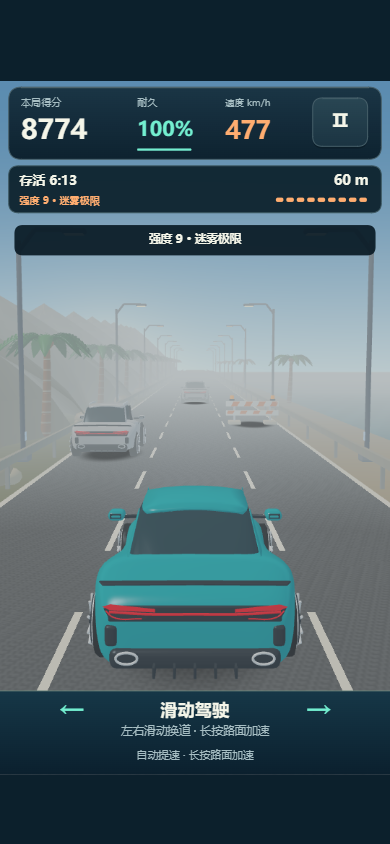
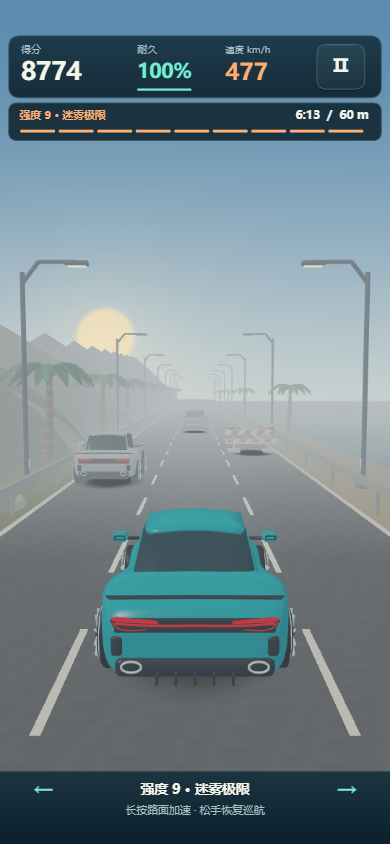
Improve phone layout and driving scene clarity

diff --git a/公路之王/src/game-app.js b/公路之王/src/game-app.js
@@ -11,7 +11,9 @@ class RoadKingApp {
   constructor(p){
     this.p=p;this.ctx=p.canvas.getContext('2d');
     this.scale=Math.min(p.width/W,(p.height-p.top-p.bottom)/H);
-    this.ox=(p.width-W*this.scale)/2;this.oy=p.top+(p.height-p.top-p.bottom-H*this.scale)/2;
+    this.ox=(p.width-W*this.scale)/2;this.oy=p.top;
+    this.viewHeight=(p.height-p.top-p.bottom)/this.scale;
+    this.sceneHeight=p.height/this.scale;
     this.buttons=[];this.touchMap={};this.keyboard={};this.queuedLane=null;this.clock=0;this.shake=0;this.newBest=false;
     // Blender renders are optional at startup: a missing image keeps its vector fallback.
     this.art={};this.artLoaded=0;this.artErrors=[];
@@ -22,6 +24,7 @@ class RoadKingApp {
     const saved=p.read(BEST_KEY)||{};this.best={score:number(saved.score),distance:number(saved.distance),elapsed:number(saved.elapsed)};
     this.game=new Core({onEvent:(type,data)=>this.onEvent(type,data)});
     this.scene=new SceneRenderer(p);
+    this.scene.setView(W,this.sceneHeight,this.oy/this.scale);
     p.touches(e=>this.touchStart(e),e=>this.touchMove(e),e=>this.touchEnd(e),()=>this.releaseHolds());
     p.lifecycle(()=>{this.hidden=true;this.releaseHolds();this.game.pause();p.stopSound();this.syncEngine();},()=>{this.hidden=false;this.last=p.now();this.syncEngine();});
     this.last=p.now();
@@ -71,7 +74,7 @@ class RoadKingApp {
     (e.changedTouches||e.touches||[]).forEach(t=>{
       const pt=this.point(t),b=this.buttons.slice().reverse().find(b=>!b.disabled&&this.inside(pt,b)),id=t.identifier==null?0:t.identifier;
       if(b){this.touchMap[id]={button:b,pt};if(b.hold)this.updateHolds();else{b.action();this.draw();}}
-      else if(this.game.mode==='playing'&&pt.x>=0&&pt.x<=W&&pt.y>=185&&pt.y<=H&&!Object.values(this.touchMap).some(item=>item.swipe))this.touchMap[id]={pt,swipe:true,axis:null,used:false,heldTime:0,holdEligible:true};
+      else if(this.game.mode==='playing'&&pt.x>=0&&pt.x<=W&&pt.y>=156&&pt.y<=this.viewHeight&&!Object.values(this.touchMap).some(item=>item.swipe))this.touchMap[id]={pt,swipe:true,axis:null,used:false,heldTime:0,holdEligible:true};
     });
   }
   touchMove(e){
@@ -119,13 +122,14 @@ class RoadKingApp {
   }
   draw(){
     const c=this.ctx,p=this.p;c.setTransform(1,0,0,1,0,0);c.fillStyle=C.ink;c.fillRect(0,0,p.canvas.width,p.canvas.height);
-    c.setTransform(p.ratio*this.scale,0,0,p.ratio*this.scale,p.ratio*this.ox,p.ratio*this.oy);c.save();c.beginPath();c.rect(0,0,W,H);c.clip();this.buttons=[];this.drawWorld();
+    c.setTransform(p.ratio*this.scale,0,0,p.ratio*this.scale,p.ratio*this.ox,p.ratio*this.oy);c.save();this.buttons=[];this.drawWorld();c.beginPath();c.rect(0,-this.oy/this.scale,W,this.sceneHeight);c.clip();
     if(this.game.mode==='menu')this.drawMenu();else{this.drawHud();if(this.game.mode==='paused')this.drawPause();else if(this.game.mode==='result')this.drawResult();}if(this.sidebarGuide)this.drawSidebarGuide();c.restore();
   }
   projection(z,x=0){const p=1/(1+Math.max(-8,z)/34),half=242*p;return{x:270+x*half*.66,y:208+530*p,p,half};}
   drawWorld(){
     if(this.scene.render(this.game,this.clock)){
-      this.ctx.drawImage(this.scene.canvas,0,0,W,H);
+      this.ctx.imageSmoothingEnabled=true;
+      this.ctx.drawImage(this.scene.canvas,0,-this.oy/this.scale,W,this.sceneHeight);
       for(const car of this.game.traffic){if(car.warningTimer>0&&car.signalDirection&&car.z>0&&car.z<120){const a=this.scene.project([car.x*3.1,2.3,-car.z]);if(a){this.rr(a.x-32,a.y-24,64,24,7,C.orange);this.txt(car.signalDirection<0?'← 变线':'变线 →',a.x,a.y-12,13,C.ink,'bold','center');}}}
       return;
     }
@@ -221,7 +225,7 @@ class RoadKingApp {
     this.rr(-28*p,-60*p,9*p,9*p,3*p,'#fff0ad');this.rr(19*p,-60*p,9*p,9*p,3*p,'#fff0ad');c.restore();
   }
   drawMenu(){
-    const c=this.ctx,fade=c.createLinearGradient(0,0,0,H);fade.addColorStop(0,'rgba(7,24,36,.98)');fade.addColorStop(.21,'rgba(8,27,39,.89)');fade.addColorStop(.41,'rgba(8,27,39,.50)');fade.addColorStop(.57,'rgba(8,27,39,.98)');fade.addColorStop(1,'rgba(8,27,39,1)');c.fillStyle=fade;c.fillRect(0,0,W,H);
+    const c=this.ctx,fade=c.createLinearGradient(0,0,0,H);fade.addColorStop(0,'rgba(7,24,36,.98)');fade.addColorStop(.21,'rgba(8,27,39,.89)');fade.addColorStop(.41,'rgba(8,27,39,.50)');fade.addColorStop(.57,'rgba(8,27,39,.98)');fade.addColorStop(1,'rgba(8,27,39,1)');c.fillStyle=fade;c.fillRect(0,-this.oy/this.scale,W,this.sceneHeight);
     this.rr(28,28,6,17,3,C.orange);this.txt('驾考宝典',45,37,16,C.white,'bold');this.txt('ENDLESS DRIVE',514,37,12,C.mute,'normal','right');
     this.txt('驾考宝典之公路日常',26,108,48,C.white,'bold');this.txt('一条公路，没有终点。',30,165,23,'#d0ded6');
     this.rr(28,202,151,31,15,'rgba(88,192,171,.14)','#3f736e');this.txt('开局强度 '+this.game.startTier,103,218,15,C.cyan,'bold','center');
@@ -250,19 +254,25 @@ class RoadKingApp {
   }
   drawHud(){
     const g=this.game,c=this.ctx,playing=g.mode==='playing',difficulty=g.difficulty||{tier:1,label:'起步巡航',progress:0},danger=difficulty.tier>=4;
-    const hud=c.createLinearGradient(0,8,0,108);hud.addColorStop(0,'rgba(24,51,65,.97)');hud.addColorStop(1,'rgba(11,30,43,.97)');
-    this.rr(12,8,516,100,18,hud,'#49616a');this.line(29,9,511,9,'rgba(232,235,201,.24)');this.txt('本局得分',29,31,14,C.mute);this.txt(Math.round(g.score),29,70,37,C.white,'bold');this.txt('耐久',190,31,14,C.mute);this.txt(Math.round(g.health)+'%',190,69,28,g.health>35?C.cyan:C.red,'bold');this.rr(190,93,75,3,1.5,'#34535a');if(g.health>0)this.rr(190,93,75*g.health/100,3,1.5,g.health>35?C.cyan:C.red);this.txt('速度 km/h',312,31,13,C.mute);this.txt(Math.round(g.speed),312,71,34,danger?C.orange:C.cyan,'bold');this.button(433,23,76,67,'Ⅱ',()=>{this.releaseHolds();g.pause();},{disabled:!playing,size:25});
-    this.rr(12,117,516,65,14,'rgba(13,34,45,.94)','#3d5861');this.txt('存活 '+duration(g.elapsed),27,139,18,C.white,'bold');this.txt(distance(g.distance),510,139,19,C.white,'bold','right');this.txt('强度 '+difficulty.tier+' · '+difficulty.label,27,166,14,danger?C.orange:C.cyan,'bold');
-    const tierCount=g.stages.length,tierStep=130/tierCount;
-    for(let i=0;i<tierCount;i++)this.rr(382+i*tierStep,161,tierStep-4,6,3,i<difficulty.tier?danger?C.orange:C.cyan:'#3a515b');
-    if(playing&&g.messageTimer>0&&g.message){const message=String(g.message);this.rr(20,199,500,42,12,'rgba(10,27,38,.93)');this.txt(message,270,220,message.length>27?13:16,C.white,'bold','center');}
-    if(playing&&this.scene.status!=='ready'){this.rr(20,199,500,42,12,'rgba(10,27,38,.96)');this.txt(this.scene.status==='failed'?'画面加载失败 · 请重新编译':'正在加载三维场景…',270,220,16,C.orange,'bold','center');}
-    if(playing&&g.elapsed<7){this.rr(111,276,318,42,12,'rgba(10,27,38,.88)');this.txt('← 左右滑动，连续闪避 →',270,297,18,C.white,'bold','center');}
-    const controls=c.createLinearGradient(0,844,0,H);controls.addColorStop(0,'#163747');controls.addColorStop(1,'#0b202e');c.fillStyle=controls;c.fillRect(0,844,W,116);this.line(0,844,W,844,'#769082');
-    this.txt('←',99,875,34,C.cyan,'bold','center');this.txt('滑动驾驶',270,872,24,C.white,'bold','center');this.txt('→',441,875,34,C.cyan,'bold','center');this.txt('左右滑动换道 · 长按路面加速',270,901,16,C.mute,'normal','center');
-    this.txt(g.collisionStopped?'碰撞停车 · 滑到旁边车道重新起步':g.throttle?'正在加速 · 松手恢复巡航':'自动提速 · 长按路面加速',270,934,15,C.mute,'normal','center');
+    const hud=c.createLinearGradient(0,8,0,94);hud.addColorStop(0,'rgba(24,51,65,.91)');hud.addColorStop(1,'rgba(11,30,43,.88)');
+    this.rr(12,8,516,86,16,hud,'#49616a');this.txt('得分',29,28,14,C.mute);this.txt(Math.round(g.score),29,61,34,C.white,'bold');
+    this.txt('耐久',190,28,14,C.mute);this.txt(Math.round(g.health)+'%',190,60,27,g.health>35?C.cyan:C.red,'bold');this.rr(190,81,75,3,1.5,'#34535a');if(g.health>0)this.rr(190,81,75*g.health/100,3,1.5,g.health>35?C.cyan:C.red);
+    this.txt('速度 km/h',312,28,13,C.mute);this.txt(Math.round(g.speed),312,61,32,danger?C.orange:C.cyan,'bold');this.button(439,20,66,62,'Ⅱ',()=>{this.releaseHolds();g.pause();},{disabled:!playing,size:25});
+    this.rr(12,101,516,52,12,'rgba(13,34,45,.86)','#3d5861');this.txt('强度 '+difficulty.tier+' · '+difficulty.label,27,119,15,danger?C.orange:C.cyan,'bold');
+    this.txt(duration(g.elapsed)+'  /  '+distance(g.distance),510,119,16,C.white,'bold','right');
+    const tierCount=g.stages.length,tierStep=480/tierCount;
+    for(let i=0;i<tierCount;i++)this.rr(28+i*tierStep,138,tierStep-5,4,2,i<difficulty.tier?danger?C.orange:C.cyan:'#3a515b');
+    const controlsY=this.viewHeight-76;
+    const controls=c.createLinearGradient(0,controlsY,0,this.viewHeight+this.p.bottom/this.scale);controls.addColorStop(0,'rgba(16,43,56,.84)');controls.addColorStop(1,'#0b202e');c.fillStyle=controls;c.fillRect(0,controlsY,W,76+this.p.bottom/this.scale);this.line(0,controlsY,W,controlsY,'#47626c');
+    let title='左右滑动换道',hint='长按路面加速 · 松手恢复巡航';
+    if(g.collisionStopped){title='碰撞停车';hint='滑到旁边空车道，重新起步';}
+    else if(g.throttle){title='正在加速';hint='松手恢复巡航 · 左右滑动避障';}
+    else if(playing&&g.messageTimer>0&&g.message){title=String(g.message);}
+    if(playing&&this.scene.status!=='ready'){title=this.scene.status==='failed'?'画面加载失败':'正在加载三维场景';hint=this.scene.status==='failed'?'请重新编译后再试':'稍等片刻';}
+    this.txt('←',60,controlsY+30,27,C.cyan,'bold','center');this.txt(title,270,controlsY+27,title.length>22?15:19,C.white,'bold','center');this.txt('→',480,controlsY+30,27,C.cyan,'bold','center');
+    this.txt(hint,270,controlsY+55,15,C.mute,'normal','center');
   }
-  scrim(){this.ctx.fillStyle='rgba(3,12,19,.83)';this.ctx.fillRect(0,0,W,H);this.buttons=[];}
+  scrim(){this.ctx.fillStyle='rgba(3,12,19,.83)';this.ctx.fillRect(0,-this.oy/this.scale,W,this.sceneHeight);this.buttons=[];}
   drawPause(){
     this.scrim();this.rr(24,263,492,434,23,C.panel,'#43606a');this.txt('稍停片刻',270,321,35,C.white,'bold','center');this.txt('公路在等你，准备好再出发。',270,371,18,C.mute,'normal','center');
     this.button(50,424,440,66,'继续挑战',()=>{this.releaseHolds();this.game.resume();},{primary:true});this.button(50,507,211,58,'重新开始',()=>this.start(),{size:20});this.button(279,507,211,58,'返回首页',()=>{this.releaseHolds();this.game.menu();},{size:20});this.button(50,593,440,52,this.muted?'音效：关':'音效：开',()=>this.toggleSound(),{size:18});

diff --git a/公路之王/src/scene-renderer.js b/公路之王/src/scene-renderer.js
@@ -5,8 +5,9 @@ const dot=(a,b)=>a.reduce((s,x,i)=>s+x*b[i],0);
 function cameraMatrix(eye,target,aspect){
   const z=normalize(eye.map((x,i)=>x-target[i])),x=normalize(cross([0,1,0],z)),y=cross(z,x);
   const v=[x[0],y[0],z[0],0,x[1],y[1],z[1],0,x[2],y[2],z[2],0,-dot(x,eye),-dot(y,eye),-dot(z,eye),1];
-  const f=1/Math.tan(54*Math.PI/360),near=.12,far=500;
+  const f=aspect/(540/960)/Math.tan(54*Math.PI/360),near=1,far=380;
   const p=[f/aspect,0,0,0,0,f,0,0,0,0,(far+near)/(near-far),-1,0,0,2*far*near/(near-far),0];
+  p[9]=.08;
   const m=new Float32Array(16);
   for(let c=0;c<4;c++)for(let r=0;r<4;r++)for(let i=0;i<4;i++)m[c*4+r]+=p[i*4+r]*v[c*4+i];
   return m;
@@ -17,7 +18,7 @@ const fragment=`precision highp float;varying mediump vec3 vWorld;varying medium
 float hash(vec2 p){return fract(sin(dot(p,vec2(127.1,311.7)))*43758.5453);}
 float noise(vec2 p){vec2 i=floor(p),f=fract(p);f=f*f*(3.-2.*f);return mix(mix(hash(i),hash(i+vec2(1.,0.)),f.x),mix(hash(i+vec2(0.,1.)),hash(i+vec2(1.,1.)),f.x),f.y);}
 void main(){vec3 n=normalize(vNormal),view=normalize(uEye-vWorld),light=normalize(vec3(-.6,.85,.3));vec3 base=uColor;float rough=uRough,metal=uMetal;float alpha=1.;
-if(uKind>0.5&&uKind<1.5){float grain=noise(vec2(vWorld.x*28.,(vWorld.z+uTravel)*28.));base=vec3(.105,.115,.125)*(0.80+grain*.30);float lane=abs(abs(vWorld.x)-1.55);float dash=step(3.,mod(-vWorld.z-uTravel,6.));if(lane<.055&&dash>.5||abs(vWorld.x)>4.48)base=vec3(.84,.82,.71);rough=.9;}
+if(uKind>0.5&&uKind<1.5){float grain=mix(.5,noise(vec2(vWorld.x*7.,(vWorld.z+uTravel)*7.)),1.-smoothstep(12.,45.,length(uEye-vWorld)));base=vec3(.105,.115,.125)*(.94+grain*.10);float lane=abs(abs(vWorld.x)-1.55);float dash=step(3.,mod(-vWorld.z-uTravel,6.));if(lane<.055&&dash>.5||abs(vWorld.x)>4.48)base=vec3(.84,.82,.71);rough=.9;}
 if(uKind>1.5&&uKind<2.5){float wave=sin(vWorld.x*1.8+uTravel*.03)*sin(vWorld.z*.8+uTravel*.06);n=normalize(vec3(wave*.08,1.,cos(vWorld.x*3.+vWorld.z)*.11));base=vec3(.025,.19,.24);rough=.16;metal=.35;}
 if(uKind>2.5&&uKind<3.5){float r=length((vWorld.xz-uPosition.xz)/uScale.xz);gl_FragColor=vec4(.015,.02,.025,.38*(1.-smoothstep(.45,1.,r)));return;}
 vec3 h=normalize(light+view);float diffuse=max(dot(n,light),0.);float spec=pow(max(dot(n,h),0.),mix(110.,7.,rough));float fresnel=pow(1.-max(dot(n,view),0.),5.);
@@ -36,7 +37,10 @@ float roadMask=1.-smoothstep(5.,8.,abs(vWorld.x));
 vec3 nightColor=base*(vec3(.065,.10,.19)+vec3(.10,.14,.22)*diffuse);
 nightColor+=base*vec3(1.,.65,.30)*lampPool*.95*roadMask;
 nightColor+=base*vec3(.65,.79,1.)*beam*.85;
-nightColor+=vec3(.09,.15,.25)*spec*(.3+metal)+base*fresnel*.12;
+nightColor+=vec3(.18,.27,.40)*spec*(.3+metal)+base*fresnel*.18;
+// Soft sky reflection gives painted panels shape without whitening the road.
+nightColor+=mix(vec3(.025,.045,.075),vec3(.20,.32,.46),smoothstep(-.1,.65,reflection.y))*metal*(.25+fresnel*.35);
+nightColor+=vec3(.19,.29,.40)*band*metal*.22;
 vec3 dawnColor=base*(vec3(.43,.53,.59)+vec3(.95,.72,.50)*diffuse*.55)+vec3(.55,.66,.72)*spec*(.22+metal*.45);
 dawnColor+=environment*mix(vec3(.04),base,metal)*(.12+fresnel*.4)+base*vec3(.75,.83,1.)*beam*.18;
 color=mix(mix(color,dawnColor,uDawn),nightColor,uNight)+base*uEmission*(uKind>4.5?(uNight+uDawn*.18)*1.8:mix(.65,1.8,uNight));
@@ -78,9 +82,9 @@ function nightAmount(game){return atmosphere(game).night;}
 
 class SceneRenderer{
   constructor(p){
-    this.status='loading';this.error=null;this.ready=Promise.resolve().then(async()=>{
+    this.viewWidth=540;this.viewHeight=960;this.topInset=0;this.platform=p;this.status='loading';this.error=null;this.ready=Promise.resolve().then(async()=>{
       if(!p.createRenderCanvas||!p.loadSceneData)throw new Error('3D platform adapter unavailable');
-      this.canvas=p.createRenderCanvas();this.canvas.width=540;this.canvas.height=960;
+      this.canvas=p.createRenderCanvas();this.resizeBuffer();
       const gl=this.gl=this.canvas.getContext('webgl',{alpha:false,antialias:true,preserveDrawingBuffer:true});
       if(!gl)throw new Error('WebGL unavailable');
       const supportsHigh=gl.getShaderPrecisionFormat(gl.FRAGMENT_SHADER,gl.HIGH_FLOAT).precision>0;
@@ -97,6 +101,13 @@ class SceneRenderer{
       this.cube=this.boxBuffer();this.ground=this.planeBuffer();this.mountain=this.mountainBuffer();this.status='ready';
     }).catch(e=>{this.error=String(e.message||e);this.status='failed';});
   }
+  setView(width,height,topInset=0){this.viewWidth=width;this.viewHeight=height;this.topInset=topInset;if(this.canvas)this.resizeBuffer();}
+  resizeBuffer(){
+    const p=this.platform,aspect=this.viewWidth/this.viewHeight;
+    // Match phone backing pixels, with a 1.5 MP budget for mobile fill-rate.
+    const width=Math.max(540,Math.min(864,(p.width||540)*(p.ratio||1),Math.sqrt(1500000*aspect)));
+    this.canvas.width=Math.round(width);this.canvas.height=Math.round(width/aspect);
+  }
   programFor(vs,fs){const g=this.gl,program=g.createProgram();for(const [type,source]of[[g.VERTEX_SHADER,vs],[g.FRAGMENT_SHADER,fs]]){const s=g.createShader(type);g.shaderSource(s,source);g.compileShader(s);if(!g.getShaderParameter(s,g.COMPILE_STATUS))throw new Error(g.getShaderInfoLog(s));g.attachShader(program,s);}g.linkProgram(program);if(!g.getProgramParameter(program,g.LINK_STATUS))throw new Error(g.getProgramInfoLog(program));return program;}
   buffer(vertices,material={}){const g=this.gl,b=g.createBuffer();g.bindBuffer(g.ARRAY_BUFFER,b);g.bufferData(g.ARRAY_BUFFER,vertices,g.STATIC_DRAW);return{buffer:b,count:vertices.length/6,material};}
   planeBuffer(){return this.buffer(new Float32Array([-1,0,-1,0,1,0,1,0,-1,0,1,0,-1,0,1,0,1,0,-1,0,1,0,1,0,1,0,-1,0,1,0,1,0,1,0,1,0]));}
@@ -105,13 +116,13 @@ class SceneRenderer{
   uniform(name,type,value){const g=this.gl,loc=this.locations[name];if(type==='vec')g.uniform3fv(loc,value);else g.uniform1f(loc,value);}
   draw(batch,position,scale=[1,1,1],color=null,kind=0){const g=this.gl,m=batch.material;g.bindBuffer(g.ARRAY_BUFFER,batch.buffer);for(const[name,size,offset]of[['aPosition',3,0],['aNormal',3,12]]){const l=this.attributes[name];g.enableVertexAttribArray(l);g.vertexAttribPointer(l,size,g.FLOAT,false,24,offset);}this.uniform('uPosition','vec',position);this.uniform('uScale','vec',scale);this.uniform('uColor','vec',color||m.color||[.4,.4,.4]);this.uniform('uRough','float',m.rough==null?.7:m.rough);this.uniform('uMetal','float',m.metal||0);this.uniform('uEmission','float',m.emission||0);this.uniform('uKind','float',kind);g.drawArrays(g.TRIANGLES,0,batch.count);}
   model(name,position,color=null,scale=1){for(const b of this.models[name]||[])this.draw(b,position,[scale,scale,scale],b.material.paint?color:null);}
-  project(point){const m=this.camera;if(!m)return null;const clip=[0,0,0,0];for(let r=0;r<4;r++)clip[r]=m[r]*point[0]+m[4+r]*point[1]+m[8+r]*point[2]+m[12+r];if(clip[3]<=0)return null;return{x:(clip[0]/clip[3]+1)*270,y:(1-clip[1]/clip[3])*480};}
+  project(point){const m=this.camera;if(!m)return null;const clip=[0,0,0,0];for(let r=0;r<4;r++)clip[r]=m[r]*point[0]+m[4+r]*point[1]+m[8+r]*point[2]+m[12+r];if(clip[3]<=0)return null;return{x:(clip[0]/clip[3]+1)*this.viewWidth/2,y:(1-clip[1]/clip[3])*this.viewHeight/2-this.topInset};}
   render(game,clock){
     if(this.status!=='ready')return false;const g=this.gl,menu=game.mode==='menu',travel=menu?clock*9:game.distance;
     const weather=atmosphere(game),night=this.night=weather.night;this.dawn=weather.dawn;this.fog=weather.fog;
-    const follow=game.playerX*2.4,eye=[follow,3.3,8.8],target=[follow,1.05,-15];
-    g.viewport(0,0,540,960);g.clearColor(.2,.3,.4,1);g.clear(g.COLOR_BUFFER_BIT|g.DEPTH_BUFFER_BIT);g.disable(g.DEPTH_TEST);g.useProgram(this.sky);g.bindBuffer(g.ARRAY_BUFFER,this.skyBuffer);const a=g.getAttribLocation(this.sky,'aPosition');g.enableVertexAttribArray(a);g.vertexAttribPointer(a,2,g.FLOAT,false,0,0);g.uniform1f(g.getUniformLocation(this.sky,'uAspect'),540/960);g.uniform1f(g.getUniformLocation(this.sky,'uNight'),night);g.uniform1f(g.getUniformLocation(this.sky,'uDawn'),weather.dawn);g.drawArrays(g.TRIANGLES,0,6);
-    g.enable(g.DEPTH_TEST);g.depthFunc(g.LEQUAL);g.disable(g.CULL_FACE);g.useProgram(this.program);this.camera=cameraMatrix(eye,target,540/960);g.uniformMatrix4fv(g.getUniformLocation(this.program,'uCamera'),false,this.camera);this.uniform('uEye','vec',eye);this.uniform('uTravel','float',travel);
+    const follow=game.playerX*2.4,eye=[follow,3.3,9.3],target=[follow,1.05,-15];
+    g.viewport(0,0,this.canvas.width,this.canvas.height);g.clearColor(.2,.3,.4,1);g.clear(g.COLOR_BUFFER_BIT|g.DEPTH_BUFFER_BIT);g.disable(g.DEPTH_TEST);g.useProgram(this.sky);g.bindBuffer(g.ARRAY_BUFFER,this.skyBuffer);const a=g.getAttribLocation(this.sky,'aPosition');g.enableVertexAttribArray(a);g.vertexAttribPointer(a,2,g.FLOAT,false,0,0);g.uniform1f(g.getUniformLocation(this.sky,'uAspect'),this.viewWidth/this.viewHeight);g.uniform1f(g.getUniformLocation(this.sky,'uNight'),night);g.uniform1f(g.getUniformLocation(this.sky,'uDawn'),weather.dawn);g.drawArrays(g.TRIANGLES,0,6);
+    g.enable(g.DEPTH_TEST);g.depthFunc(g.LEQUAL);g.disable(g.CULL_FACE);g.useProgram(this.program);this.camera=cameraMatrix(eye,target,this.viewWidth/this.viewHeight);g.uniformMatrix4fv(g.getUniformLocation(this.program,'uCamera'),false,this.camera);this.uniform('uEye','vec',eye);this.uniform('uTravel','float',travel);
     this.uniform('uNight','float',night);this.uniform('uDawn','float',weather.dawn);this.uniform('uFog','float',weather.fog);this.uniform('uPlayerX','float',game.playerX*3.1);
     this.draw(this.ground,[70,-.6,-120],[65,1,190],[.025,.18,.25],2);this.draw(this.ground,[-18,-.08,-130],[14,1,200],[.19,.20,.105]);this.draw(this.ground,[6.6,-.07,-130],[2,1,200],[.40,.33,.21]);this.draw(this.ground,[0,0,-140],[4.65,1,210],null,1);
     for(let i=0;i<11;i++)this.draw(this.mountain,[-17-i*.9,0,-25-i*26],[11+i*.6,8+i*.9,22],[.28,.245,.16]);

diff --git a/tests/platform.test.js b/tests/platform.test.js
@@ -6,7 +6,7 @@ const path = require('node:path');
 const vm = require('node:vm');
 const source = fs.readFileSync(path.join(__dirname, '../公路之王/src/platform.js'), 'utf8');
 
-function fixture(info = {}) {
+function fixture(info = {}, overrides = {}) {
   const events = {}, storage = new Map(), audio = [], images = [], canvas = {}, frames = [];
   const api = {
     createCanvas: () => canvas,
@@ -22,6 +22,7 @@ function fixture(info = {}) {
   };
   for (const name of ['onTouchStart', 'onTouchMove', 'onTouchEnd', 'onTouchCancel', 'onHide', 'onShow'])
     api[name] = callback => { events[name] = callback; };
+  Object.assign(api,overrides);
   const module = { exports: {} };
   vm.runInNewContext(source, { module, require:name=>require('../公路之王/src/'+name.replace('./','')), requestAnimationFrame: callback => { frames.push(callback); return frames.length; }, Date });
   return { platform: module.exports(api), api, events, storage, audio, images, canvas, frames };
@@ -47,6 +48,12 @@ test('Douyin canvas uses CSS dimensions, caps backing scale at two and respects 
   const fallback = fixture({ windowWidth: 0, windowHeight: 0, screenWidth: 375, screenHeight: 667, pixelRatio: 1, safeArea: undefined }).platform;
   assert.equal(fallback.width, 375); assert.equal(fallback.height, 667);
   assert.equal(fallback.top, 30); assert.equal(fallback.bottom, 10);
+});
+
+test('native capsule is reserved and unavailable or invalid layout safely falls back',()=>{
+  assert.equal(fixture({}, {getMenuButtonLayout:()=>({bottom:94})}).platform.top,100);
+  for(const menu of [null,{}, {bottom:NaN}, {bottom:900}, {bottom:-3}])assert.equal(fixture({}, {getMenuButtonLayout:()=>menu}).platform.top,47);
+  assert.equal(fixture({}, {getMenuButtonLayout:()=>{throw new Error('unsupported');}}).platform.top,47);
 });
 
 test('touch and lifecycle handlers bind directly to all six native callbacks', () => {

diff --git a/tests/mobile-layout.test.js b/tests/mobile-layout.test.js
@@ -1,0 +1,19 @@
+const test=require('node:test'),assert=require('node:assert/strict');
+const App=require('../公路之王/src/game-app');
+const Scene=require('../公路之王/src/scene-renderer');
+test('tall phone uses safe-area top and bottom with working bottom-area gestures',()=>{
+ const p={width:393,height:852,ratio:2,top:100,bottom:34,canvas:{getContext:()=>({})},read:()=>null,write(){},now:()=>0,frame(){},loadImage:()=>Promise.resolve({}),touches(){},lifecycle(){},stopSound(){},sound(){},vibrate(){}};
+ const a=new App(p);a.start();a.game._nextTraffic=Infinity;
+ assert.equal(a.oy,100);assert.ok(Math.abs(a.oy+a.viewHeight*a.scale-818)<1e-6);
+ const event=(x,y)=>({changedTouches:[{identifier:1,clientX:a.ox+x*a.scale,clientY:a.oy+y*a.scale}]});
+ const y=a.viewHeight-20;
+ a.touchStart(event(270,y));a.touchMove(event(180,y));a.touchEnd(event(180,y));assert.equal(a.game.lane,-1);
+ a.touchStart(event(270,y));a.update(.35);assert.equal(a.game.throttle,true);a.touchEnd(event(270,y));assert.equal(a.game.throttle,false);
+});
+test('render buffer follows phone pixels and retains a mobile pixel budget',()=>{
+ for(const [width,height,ratio]of[[393,852,2],[430,932,3],[768,1024,2]]){
+  const s=new Scene({width,height,ratio});s.canvas={};s.setView(540,height/width*540,50);
+  assert.ok(s.canvas.width>540);assert.ok(s.canvas.width<=864);assert.ok(s.canvas.width*s.canvas.height<1502000);
+  assert.ok(Math.abs(s.canvas.width/s.canvas.height-width/height)<.002);
+ }
+});

diff --git a/公路之王/src/platform.js b/公路之王/src/platform.js
@@ -13,6 +13,12 @@ module.exports = function createPlatform(api) {
   const ratio = Math.min(info.pixelRatio || 1, 2);
   canvas.width = Math.round(width * ratio); canvas.height = Math.round(height * ratio);
   const safe = info.safeArea || {top:0,bottom:height};
+  let top=Math.max(30,safe.top||0);
+  // Native mini-game capsule coordinates are CSS pixels, like safeArea.
+  try{
+    const menu=typeof api.getMenuButtonLayout==='function'?api.getMenuButtonLayout():null;
+    if(menu&&Number.isFinite(menu.bottom)&&menu.bottom>0&&menu.bottom<height*.3)top=Math.max(top,menu.bottom+6);
+  }catch(_){}
   const bind = (name, cb) => { if (typeof api[name] === 'function') api[name](cb); };
   const audio = {};
   let engine = null, engineIdle = null, enginePlaying = false;
@@ -36,7 +42,7 @@ module.exports = function createPlatform(api) {
   const images = Object.create(null);
   return {
     sidebar,
-    canvas,width,height,ratio,top:Math.max(30,safe.top||0),bottom:Math.max(10,height-(safe.bottom||height)),
+    canvas,width,height,ratio,top,bottom:Math.max(10,height-(safe.bottom||height)),
     createRenderCanvas:()=>api.createCanvas(),
     async loadSceneData(){
       const fs=api.getFileSystemManager();

diff --git a/tools/package_douyin_demo.py b/tools/package_douyin_demo.py
@@ -21,6 +21,10 @@ assert collision_verification.get('passed') is True, 'Collision audio playback m
 sidebar_verification=json.loads((root/'research/blender-preview/sidebar-ui.json').read_text(encoding='utf-8'))
 assert sidebar_verification.get('passed') is True, 'Sidebar UI verification must pass'
 night_verification=json.loads((root/'research/blender-preview/night-scene.json').read_text(encoding='utf-8'))
+mobile_verification=json.loads((root/'research/blender-preview/mobile-ui.json').read_text(encoding='utf-8'))
+assert mobile_verification.get('passed') is True, 'Phone-aspect UI verification must pass'
+for item in mobile_verification['inputs']:
+    assert hashlib.sha256((root/item['file']).read_bytes()).hexdigest()==item['sha256'], 'Mobile rendering changed after verification'
 assert night_verification.get('passed') is True, 'Night scene verification must pass'
 for item in night_verification['inputs']:
     assert hashlib.sha256((root/item['file']).read_bytes()).hexdigest()==item['sha256'], 'Night scene changed after verification'
@@ -39,6 +43,8 @@ for folder in ('公路之王', 'preview', 'tests'):
 files.extend(root / p for p in (
     'docs/endless-mode.md',
     'docs/difficulty-config.md',
+    'docs/mobile-rendering.md',
+    'tools/verify_mobile_preview.cjs',
     'docs/sidebar-return.md',
     'tools/verify_sidebar_preview.cjs',
     'docs/blender-art.md',
@@ -97,7 +103,7 @@ report = {
     'files':names,
     'zipIntegrity':'passed',
     'platform':'Douyin native WebGL 3D scene with Blender geometry and Canvas 2D HUD',
-    'verification':'71 Node tests; nine configurable stages, night tiers 4–5 and dawn fog tiers 6–9, adjustable density, gradual transitions, high-speed visible obstacles and two-size WebGL dawn rendering verified; configurable starting tiers, zeroed run statistics and direct tier-four night start verified; configurable tier-four night transition, Blender streetlamp and two-size WebGL night scene verified; pulse skill removed; former skill area swipe/hold and two-size driving UI checks; including randomized merge completion, direction, warning timing and short reaction distance checks; six seeded 120-second runs of the shipped difficulty cliff (easy tutorial, hard tier two, escalating later tiers); sidebar capability, navigation failure and hot-start checks; sidebar browser UI at 390x844 and 320x568 with mocked host APIs; collision audio single playback and mute checks; extreme configured-speed browser spawning and collision checks, configurable tier durations and hazard parameters, nine difficulty tiers, persistent WebAudio engine playback and 15-second PCM continuity checks, traffic merge clearance, collision stop/recovery and WebGL rendering. See research/blender-preview and README for scope.',
+    'verification':'74 Node tests; full-window phone rendering, capsule-safe compact HUD, DPR-aware buffer, night reflections, bottom gestures and low-precision shader fallback verified; nine configurable stages, night tiers 4–5 and dawn fog tiers 6–9, adjustable density, gradual transitions, high-speed visible obstacles and two-size WebGL dawn rendering verified; configurable starting tiers, zeroed run statistics and direct tier-four night start verified; configurable tier-four night transition, Blender streetlamp and two-size WebGL night scene verified; pulse skill removed; former skill area swipe/hold and two-size driving UI checks; including randomized merge completion, direction, warning timing and short reaction distance checks; six seeded 120-second runs of the shipped difficulty cliff (easy tutorial, hard tier two, escalating later tiers); sidebar capability, navigation failure and hot-start checks; sidebar browser UI at 390x844 and 320x568 with mocked host APIs; collision audio single playback and mute checks; extreme configured-speed browser spawning and collision checks, configurable tier durations and hazard parameters, nine difficulty tiers, persistent WebAudio engine playback and 15-second PCM continuity checks, traffic merge clearance, collision stop/recovery and WebGL rendering. See research/blender-preview and README for scope.',
     'notVerified':['Blender art version in Douyin IDE simulator','Android/iOS phone','live upload and publication','phone performance','audio listening'],
 }
 (target / 'delivery-manifest.json').write_text(json.dumps(report,ensure_ascii=False,indent=2),encoding='utf-8')

diff --git a/docs/mobile-rendering.md b/docs/mobile-rendering.md
@@ -1,0 +1,14 @@
+# 手机画面优化
+
+针对 1179×2556 真机截图反馈进行调整。默认从强度 1 开始，夜景预览测试临时使用强度 4，不修改正式配置。
+
+- 道路场景覆盖整个窗口，界面不再按 540×960 在长屏中垂直居中。顶部保留系统安全区及胶囊区域，底部提示栏贴近底部安全区；刘海和胶囊后仍绘制天空。
+- 原生适配优先读取 `tt.getMenuButtonLayout()` 的有效 `bottom`，增加 6 CSS 像素间距；接口缺失、异常或返回无效数据时回退到系统安全区。参考[抖音官方安全区域适配说明](https://developer.open-douyin.com/docs/resource/zh-CN/mini-game/develop/guide/game-engine/godot/adaptation-checklist)。
+- 合并时间、距离和强度信息，底部提示由 116 缩至 76 个逻辑像素；开局、升级、碰撞提示共用底栏，移除道路上方重复的引导条。底栏继续支持左右滑动与长按。
+- WebGL 缓冲按手机实际画布像素设置，宽度最高 864，总像素预算约 150 万；393×852、画布 DPR 2 时为 786×1704，原先固定 540×960。维持正确比例，不纵向拉长车辆。
+- 透视近裁面由 0.12 米调整为 1 米、远裁面为 380 米，改善近处薄车灯与车身的深度分辨率。相机位置和画幅调整后，两侧换道时主车保持在画面内。
+- 夜间车漆增加冷色环境反光；道路颗粒降低对比度并在远处淡出，减少闪烁。保留现有 Blender 模型，不新增模型包体。
+
+验证：74 项 Node 测试通过；390×844、320×568 常规浏览器回归，以及 393×852 / DPR 3 的夜景、晨雾、低精度片元着色器、胶囊占位、暂停、换道及长按检查。结果为 `research/blender-preview/mobile-ui.json`；`mobile-night-393.png` 为优化后模拟截图。前后对照由 `tools/verify_mobile_preview.cjs` 生成，其中历史版本对照需要仓库提交 `15bd045`。
+
+浏览器模拟不能确认手机 GPU 性能或宿主真实返回值。本次尚未用手机重新运行，需重新编译并真机预览确认。

diff --git a/公路之王/README.md b/公路之王/README.md
@@ -42,7 +42,7 @@ node preview/serve.js 4179
 
 访问 [http://127.0.0.1:4179/](http://127.0.0.1:4179/)。若端口已有服务，直接访问并刷新。浏览器与抖音环境加载同一份 `game-core.js` 和 `game-app.js`。浏览器预览工具不需要放入抖音发布包。
 
-规则与平台测试 **71/71 通过**。覆盖变道防穿越、撞停换道恢复、引擎音源不重复启动和加载中静音。六个随机种子的六分钟驾驶逐帧检查车流无重叠。`tools/verify_engine_preview.cjs` 验证实际 WebAudio 播放、加速变化、撞停怠速及暂停静音，并渲染 15 秒连续音频检查多个循环接缝无静音断点。报告输出至 `research/blender-preview/`。
+规则与平台测试 **74/74 通过**。覆盖变道防穿越、撞停换道恢复、引擎音源不重复启动和加载中静音。六个随机种子的六分钟驾驶逐帧检查车流无重叠。`tools/verify_engine_preview.cjs` 验证实际 WebAudio 播放、加速变化、撞停怠速及暂停静音，并渲染 15 秒连续音频检查多个循环接缝无静音断点。报告输出至 `research/blender-preview/`。
 
 本次验证范围为 Node 规则/平台测试与共享源码浏览器预览（390×844、320×568）。本次无尽修改尚未在抖音模拟器或手机真机重验，也未上传、审核或发布。`research/douyin-preview/` 中的记录与旧版 PDF 是原三关版本的历史资料。
 
@@ -66,3 +66,5 @@ node preview/serve.js 4179
 各档时间与难度在 src/difficulty-config.js 配置，字段说明见 ../docs/difficulty-config.md；修改后重新编译生效。
 
 极高配置速度采用道路移动缩放，并限制障碍生成点在可见范围内；仪表速度仍按配置显示。1000、1500、20000、40000的可见障碍生成与碰撞停车已通过浏览器检查。
+
+手机全屏布局与清晰度优化见 [手机画面说明](../docs/mobile-rendering.md)。界面避让顶部胶囊，提示集中到底部，场景按手机像素密度渲染。

diff --git a/docs/difficulty-config.md b/docs/difficulty-config.md
@@ -4,7 +4,7 @@
 
 ## 选择开局强度
 
-修改文件顶部的 `startTier`，可选整数 1–9。当前保留 `"startTier": 4`。例如 `"startTier": 4` 表示直接从强度 4 的起始速度和黑夜场景开始。首页会显示当前开局强度。
+修改文件顶部的 `startTier`，可选整数 1–9。当前配置 `"startTier": 1`。例如 `"startTier": 4` 表示直接从强度 4 的起始速度和黑夜场景开始。首页会显示当前开局强度。
 
 选择任意强度时，从该档第 0 秒开始；前八档持续满该档 `durationSeconds` 后进入下一档，强度 9 无限持续。生存时间、距离和得分仍从 0 开始，重新挑战仍使用同一个开局强度。省略该字段按 1 处理。4/5 直接进入夜间，6–9 直接进入清晨雾景。
 
@@ -20,7 +20,7 @@
 | 8 浓雾穿行 / 310–370 秒 | 1250 → 1350 | 0.29 → 0.26 | 97% | 44% |
 | 9 迷雾极限 / 370 秒后 | 1400 → 1600 | 0.25 → 0.20 | 98% | 47% |
 
-表中时间以强度 1 开局计算；当前强度 4 开局，120 秒后进入强度 6。
+表中时间以强度 1 开局计算；若改为强度 4 开局，120 秒后进入强度 6。
 
 第二档开始出现变道车和固定路障；每波仍保留空车道，相邻波次的空车道最多相差一条。升级时将旧档剩余生成等待缩短至最多 0.6 秒（拥挤时仍延期）。巡航目标陡增后车辆逐步加速，碰撞停车后的加速和避障恢复逻辑保持一致。表中间隔为请求间隔，实际波次仍受安全距离和可见范围约束，不代表强制每隔该时间塞入障碍。
 
